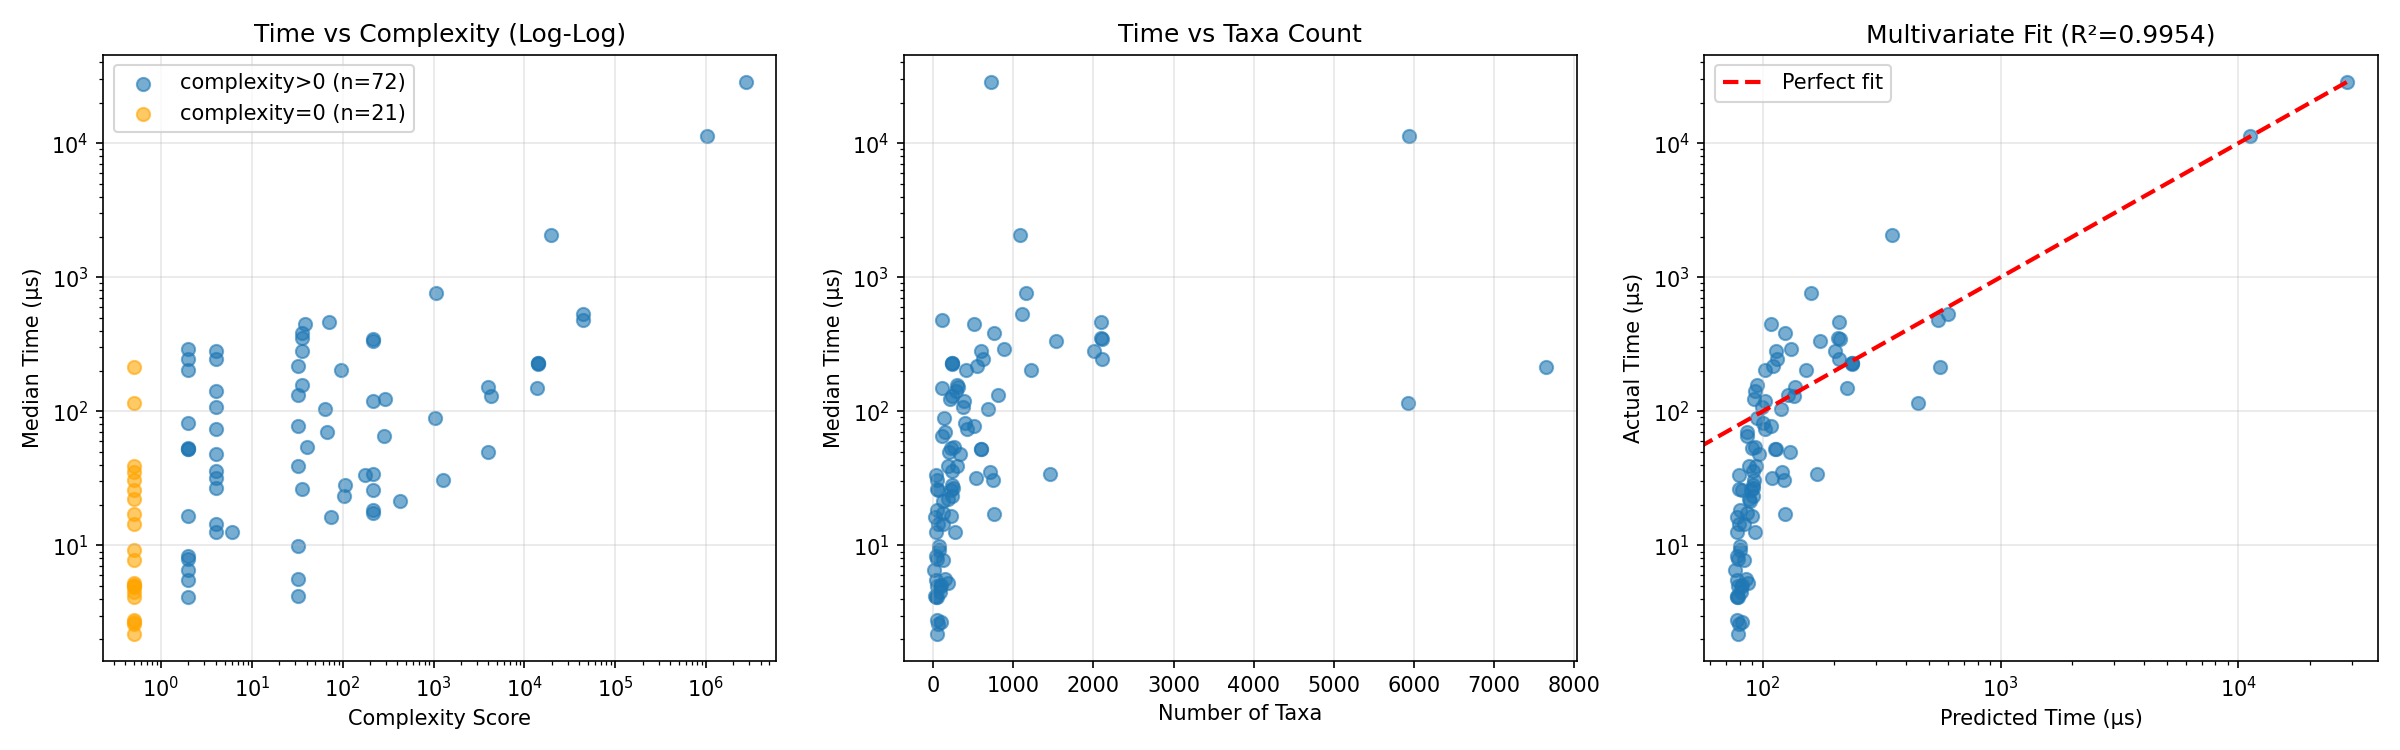
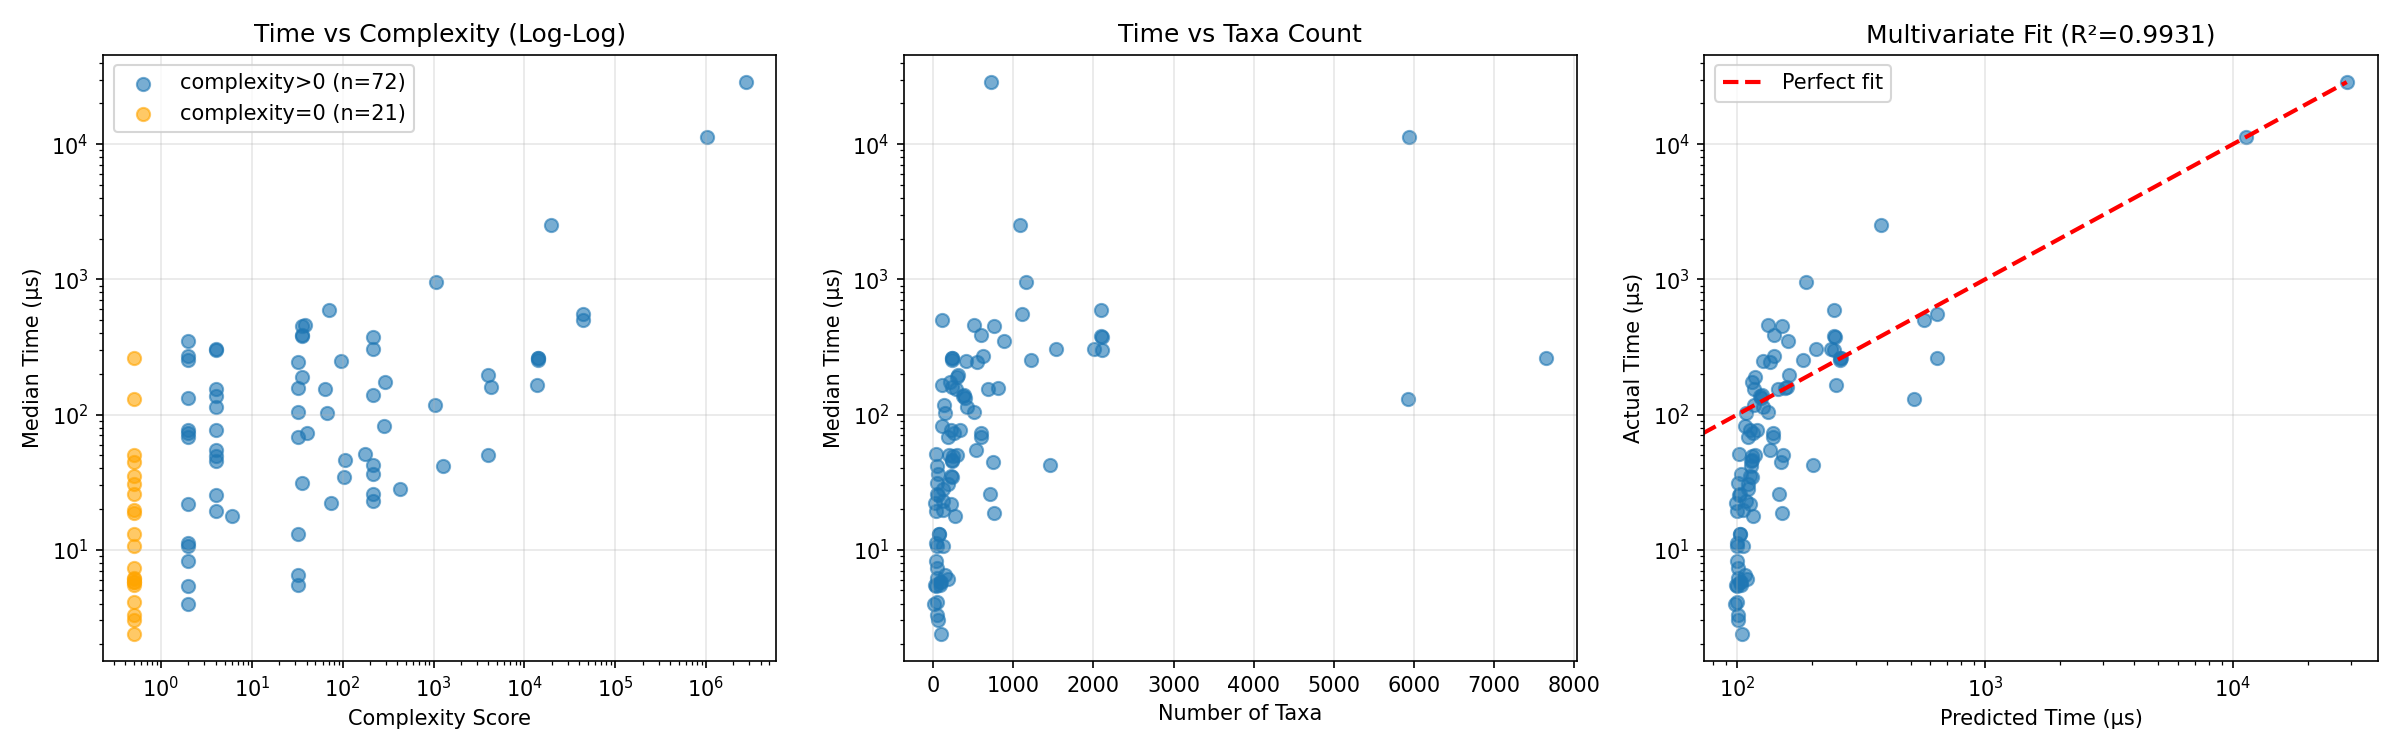
Updated the python script to automatically update the README to match latest regression and csv file information

diff --git a/calibratedcpp-beast/validation/phylodata_calibration_forests/plot_benchmark.py b/calibratedcpp-beast/validation/phylodata_calibration_forests/plot_benchmark.py
@@ -1,20 +1,65 @@
 #!/usr/bin/env python3
 """
-Plot benchmark results from CalibratedCPP constraint tree benchmarks.
-
-Usage:
-    python plot_benchmark.py
+Plot benchmark results from CalibratedCPP constraint tree benchmarks
+and replace the regression/table info in README.md accurately.
 """
 
 import pandas as pd
 import matplotlib.pyplot as plt
 import numpy as np
+import re
 from pathlib import Path
 
 # Use script directory for relative paths
 SCRIPT_DIR = Path(__file__).parent
 CSV_PATH = SCRIPT_DIR / "benchmark_results.csv"
 PLOT_PATH = SCRIPT_DIR / "benchmark_analysis_plot.png"
+README_PATH = SCRIPT_DIR / "README.md"
+
+
+def update_readme(a, b, c, r2, top_df):
+    if not README_PATH.exists():
+        return
+
+    with open(README_PATH, 'r', encoding='utf-8') as f:
+        content = f.read()
+
+    # 1. Replace Regression section (These use specific text anchors)
+    content = re.sub(r"\(R² = \d+\.\d+\):", f"(R² = {r2:.2f}):", content)
+    
+    eq_pattern = r"time\(μs\) = [\d\.]+ × complexity \+ [\d\.]+ × taxa \+ [\d\.]+"
+    new_eq = f"time(μs) = {a:.3f} × complexity + {b:.3f} × taxa + {c:.1f}"
+    content = re.sub(eq_pattern, new_eq, content)
+
+    # 2. Build the new table string
+    table_header = "| File | Taxa | Calibrations | Complexity | Time (μs) |"
+    table_divider = "|------|------|--------------|------------|-----------|"
+    rows = []
+    for _, row in top_df.iterrows():
+        fname = str(row['file']).replace('.newick', '')
+        rows.append(f"| {fname} | {int(row['taxa']):,} | {int(row['calibrations'])} | {int(row['complexity']):,} | {row['p50_us']:,.0f} |")
+    new_table_content = f"{table_header}\n{table_divider}\n" + "\n".join(rows)
+
+    # 3. Use the HTML Comments as strict boundaries
+    start_anchor = "<!-- start of table -->"
+    end_anchor = "<!-- end of table -->"
+    
+    # This pattern finds the anchors and everything in between
+    # re.escape ensures the "!" and "-" aren't treated as regex commands
+    pattern = re.compile(f"{re.escape(start_anchor)}.*?{re.escape(end_anchor)}", re.DOTALL)
+
+    if pattern.search(content):
+        # Construct the replacement block including the anchors for next time
+        replacement_text = f"{start_anchor}\n{new_table_content}\n{end_anchor}"
+        new_content = pattern.sub(replacement_text, content)
+        
+        # Write only if we actually found a match
+        with open(README_PATH, 'w', encoding='utf-8') as f:
+            f.write(new_content)
+        print(f"Successfully updated: {README_PATH}")
+    else:
+        print("Error: Could not find the anchors.")
+        print("The README was not modified.")
 
 
 def main():
@@ -39,8 +84,6 @@ def main():
 
     # Create figure
     fig, axes = plt.subplots(1, 3, figsize=(16, 5))
-
-    # Plot 1: Time vs Complexity (log-log)
     mask_nonzero = df['complexity'] > 0
     axes[0].scatter(df.loc[mask_nonzero, 'complexity'], df.loc[mask_nonzero, 'p50_us'],
                     alpha=0.6, s=40, label=f'complexity>0 (n={mask_nonzero.sum()})')
@@ -75,7 +118,11 @@ def main():
 
     plt.tight_layout()
     plt.savefig(PLOT_PATH, dpi=150)
-    print(f"\nSaved: {PLOT_PATH}")
+    print(f"Saved: {PLOT_PATH}")
+
+    # Prepare Top 5 and update README
+    top_5 = df.sort_values(by='p50_us', ascending=False).head(5)
+    update_readme(a, b, c, r2, top_5)
 
 
 if __name__ == "__main__":

diff --git a/calibratedcpp-beast/validation/phylodata_calibration_forests/README.md b/calibratedcpp-beast/validation/phylodata_calibration_forests/README.md
@@ -35,21 +35,21 @@ All 93 constraint trees benchmark successfully with CalibratedCoalescentPointPro
 
 **Regression model** (R² = 0.99):
 ```
-time(μs) = 0.028 × complexity + 0.08 × taxa + 322
+time(μs) = 0.011 × complexity + 0.071 × taxa + 96.8
 ```
 
 Where complexity = Σ 2^k × k³ for each calibration node with k children.
 
 **Top 5 by execution time:**
-
+<!-- start of table -->
 | File | Taxa | Calibrations | Complexity | Time (μs) |
 |------|------|--------------|------------|-----------|
-| burridge-2020 (Galaxioid) | 725 | 17 | 2,726,108 | 77,000 |
-| harrington-2024 (set3) | 5,940 | 22 | 1,024,106 | 29,000 |
-| marburger-2018 (cory) | 1,105 | 7 | 43,904 | 6,000 |
-| trotta-2018 (PineRockland) | 1,080 | 50 | 19,816 | 5,100 |
-| v-2016 (Scleractinia) | 1,158 | 8 | 1,058 | 3,200 |
-
+| burridge-2020-migration-nbmn_Galaxioid_Diversification | 725 | 17 | 2,726,108 | 28,755 |
+| harrington-2024-dispersal-we1f_BEAST_divtimes_set3 | 5,940 | 22 | 1,024,106 | 11,363 |
+| trotta-2018-community-a38u_Trotta_PineRockland | 1,080 | 50 | 19,816 | 2,523 |
+| v-2016-new-g4qu_Scleractinia | 1,158 | 8 | 1,058 | 952 |
+| arbour-2021-little-vfxn_percidae_constrained_200_million | 2,097 | 7 | 70 | 593 |
+<!-- end of table -->
 ## Usage
 
 Run benchmark:
